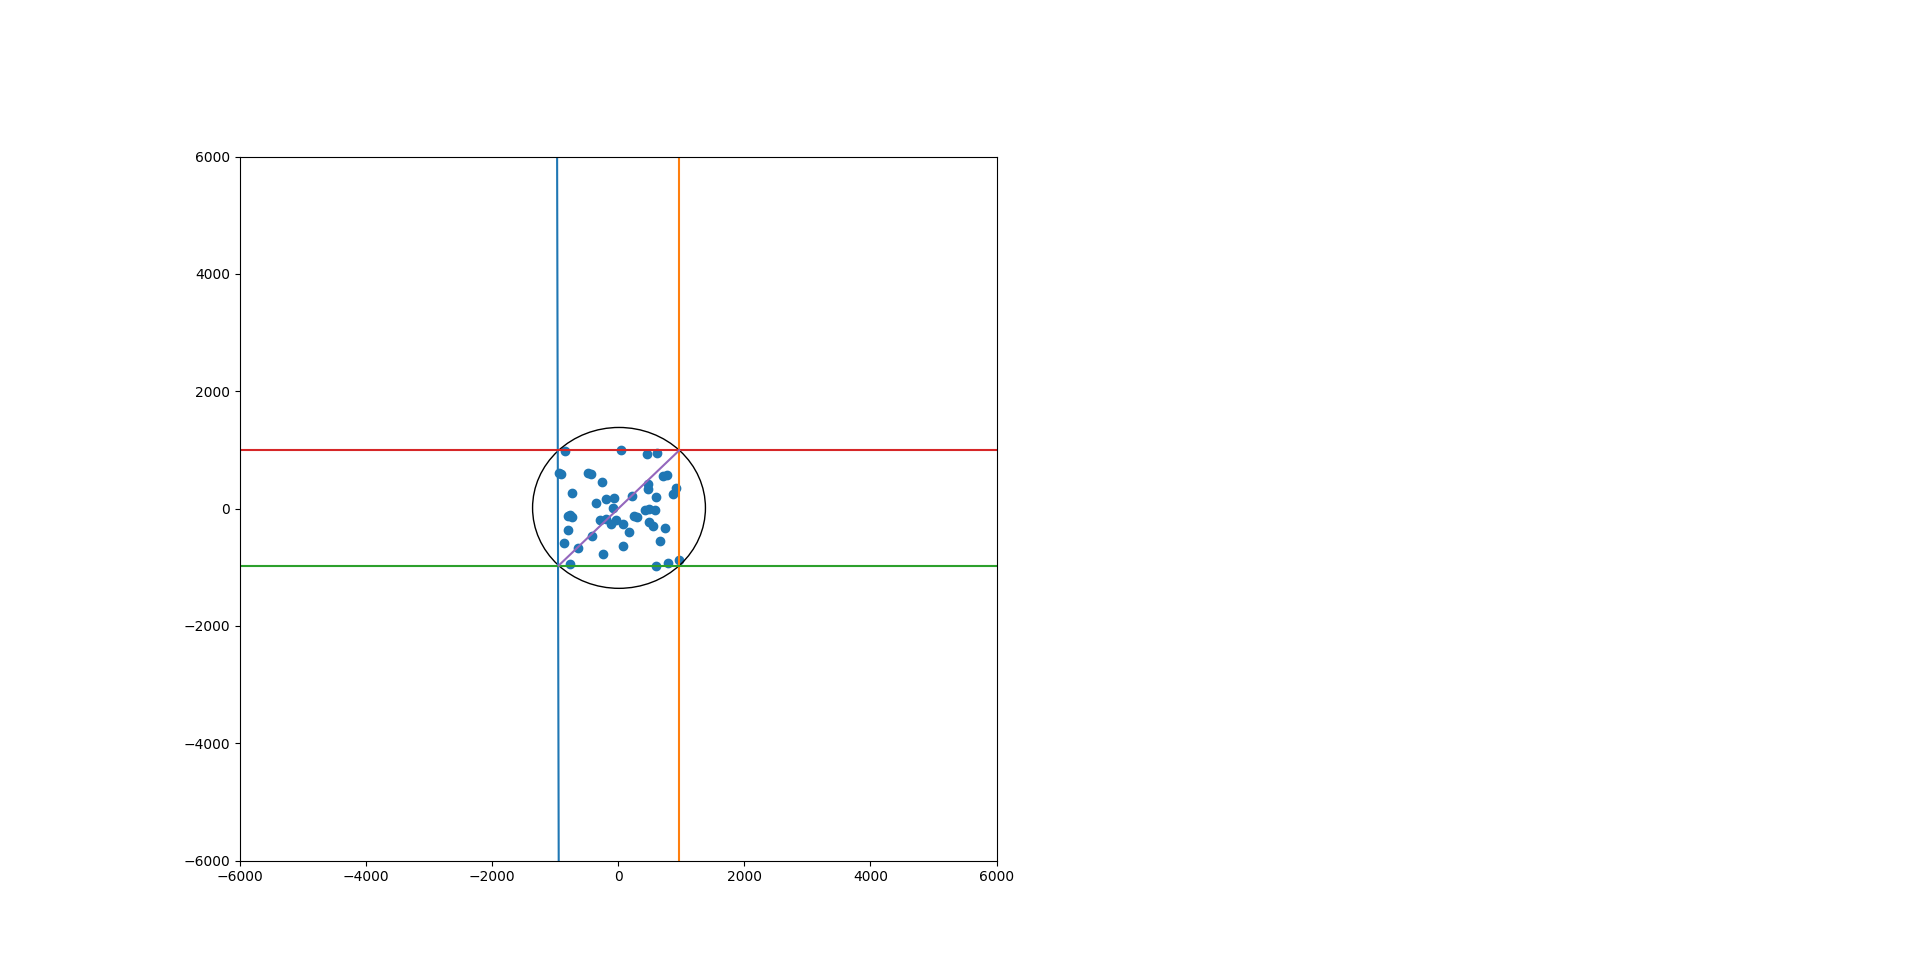
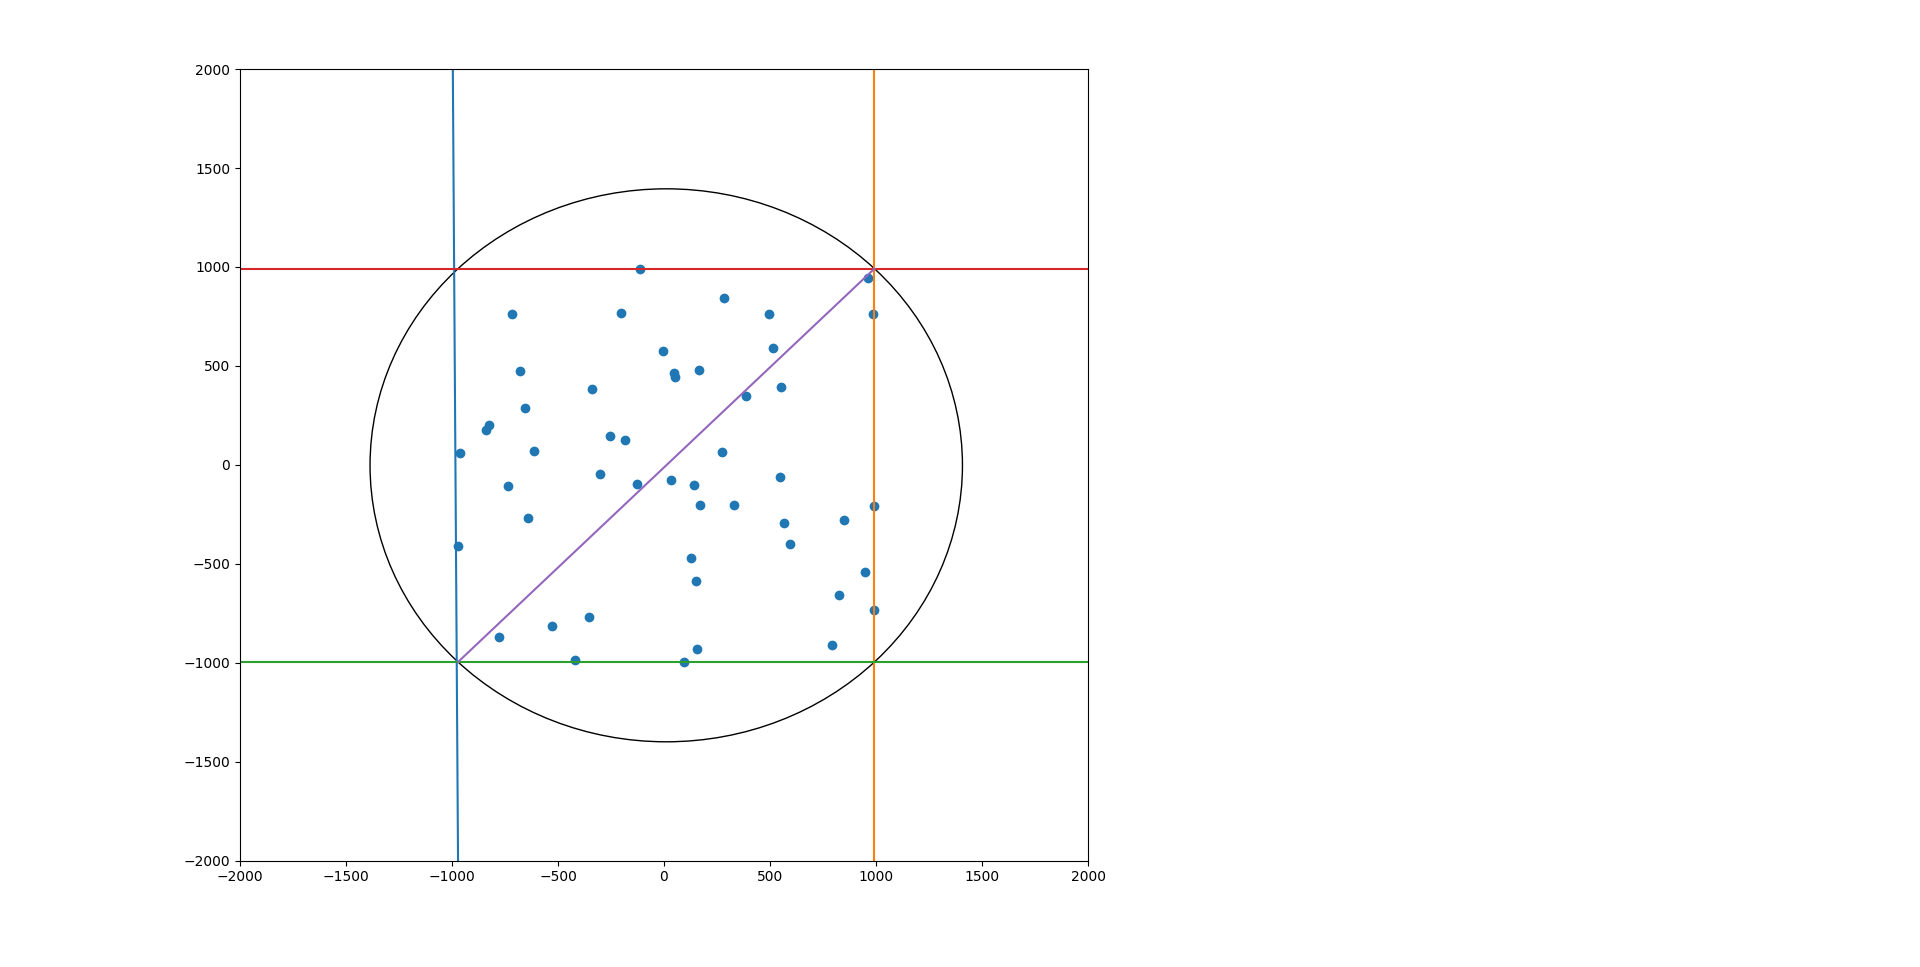
fix figure

diff --git a/boundaries.py b/boundaries.py
@@ -15,10 +15,10 @@ figure, axes = plt.subplots()
 plt.scatter(points_x, points_y)
 
 #plot boundaries created by minimum and maximum x and y values
-plt.plot([min_x, min_y], [-6000, 6000])
-plt.plot([max_x, max_x], [-6000, 6000])
-plt.plot([-6000, 6000], [min_y, min_y])
-plt.plot([-6000, 6000], [max_y, max_y])
+plt.plot([min_x, min_y], [-2000, 2000])
+plt.plot([max_x, max_x], [-2000, 2000])
+plt.plot([-2000, 2000], [min_y, min_y])
+plt.plot([-2000, 2000], [max_y, max_y])
 plt.plot([min_x, max_x], [min_y, max_y])
 
 
@@ -26,8 +26,8 @@ plt.plot([min_x, max_x], [min_y, max_y])
 radius = ((((max_x - min_x) ** 2) + ((max_y - min_y) ** 2)) ** 0.5) / 2
 tup = (((max_x + min_x) / 2), ((max_y + min_y) / 2))
 
-axes.set_xlim([-6000, 6000])
-axes.set_ylim([-6000, 6000])
+axes.set_xlim([-2000, 2000])
+axes.set_ylim([-2000, 2000])
 axes.add_artist(plt.Circle(tup, radius, facecolor="none", edgecolor="black"))
 
 plt.show()
